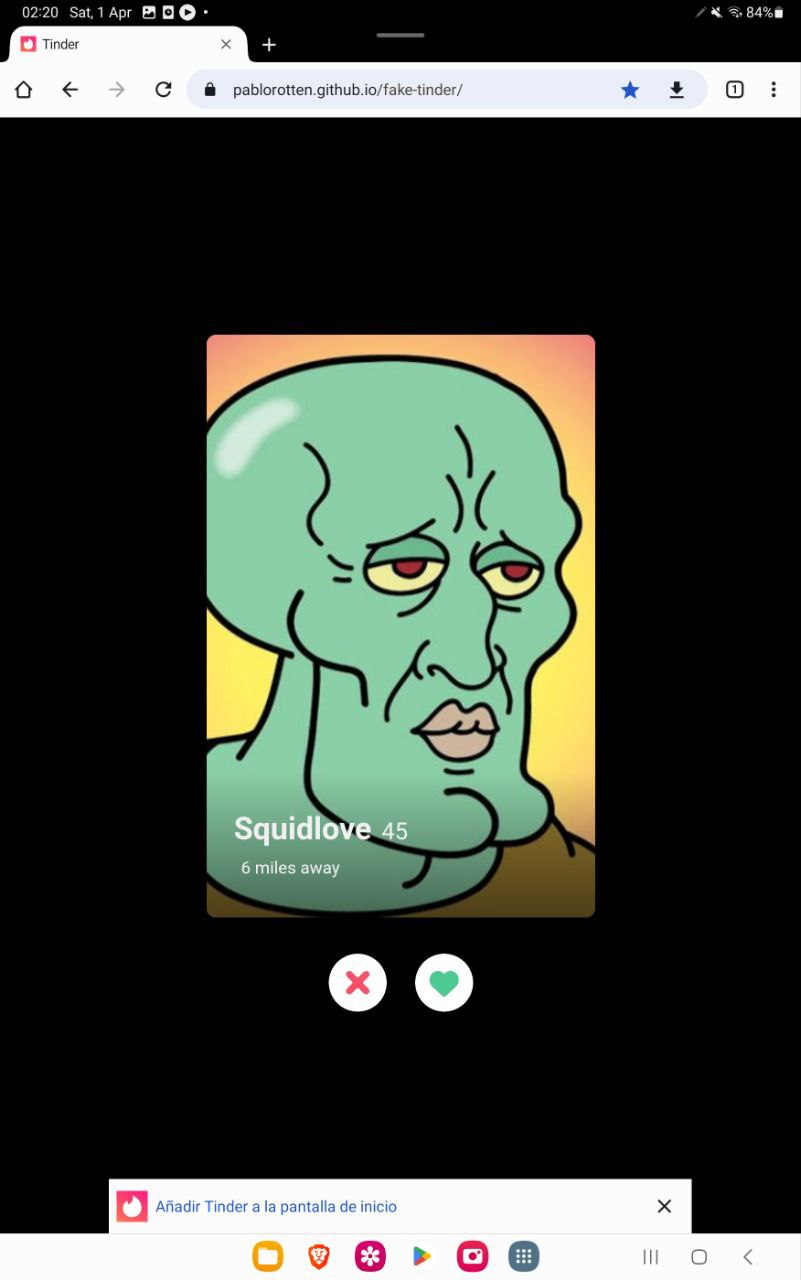
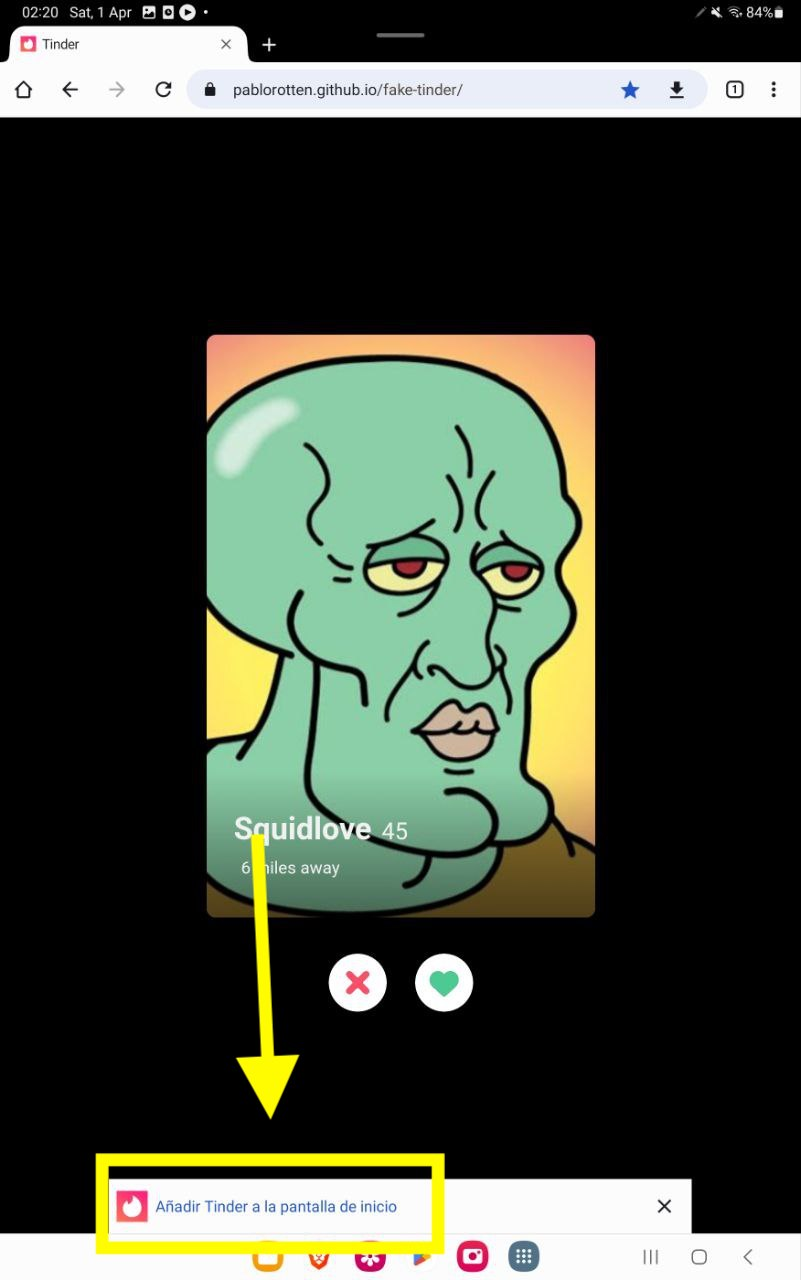
Readme

Changed region(s): [[0.0936, 0.625, 0.5618, 1.0]]

diff --git a/README.md b/README.md
@@ -14,15 +14,15 @@ iPhone:
 3. Share 
 4. Add to home screen
 
-![iPhone installation](images/iphone-installation.jpeg)
+![iPhone installation](images/iphone-installation-1.jpeg)
+![iPhone installation](images/iphone-installation-2.jpeg)
 
 Android:
 1. Open Chrome
 2. Go to https://pablorotten.github.io/fake-tinder/
 3. Option 1: Tap on the button "Add Tinder to home screen"
-4. Option 2: Tap on ... menu and "Install app" (⚠remember, is not a real app, just a web page)
-
 ![Option 1](images/android-installation-1.jpeg)
+4. Option 2: Tap on ... menu and "Install app" (⚠remember, is not a real app, just a web page)
 ![Option 2](images/android-installation-2.jpeg)
 
 Now you have your **fake** Tinder app on your home screen:
